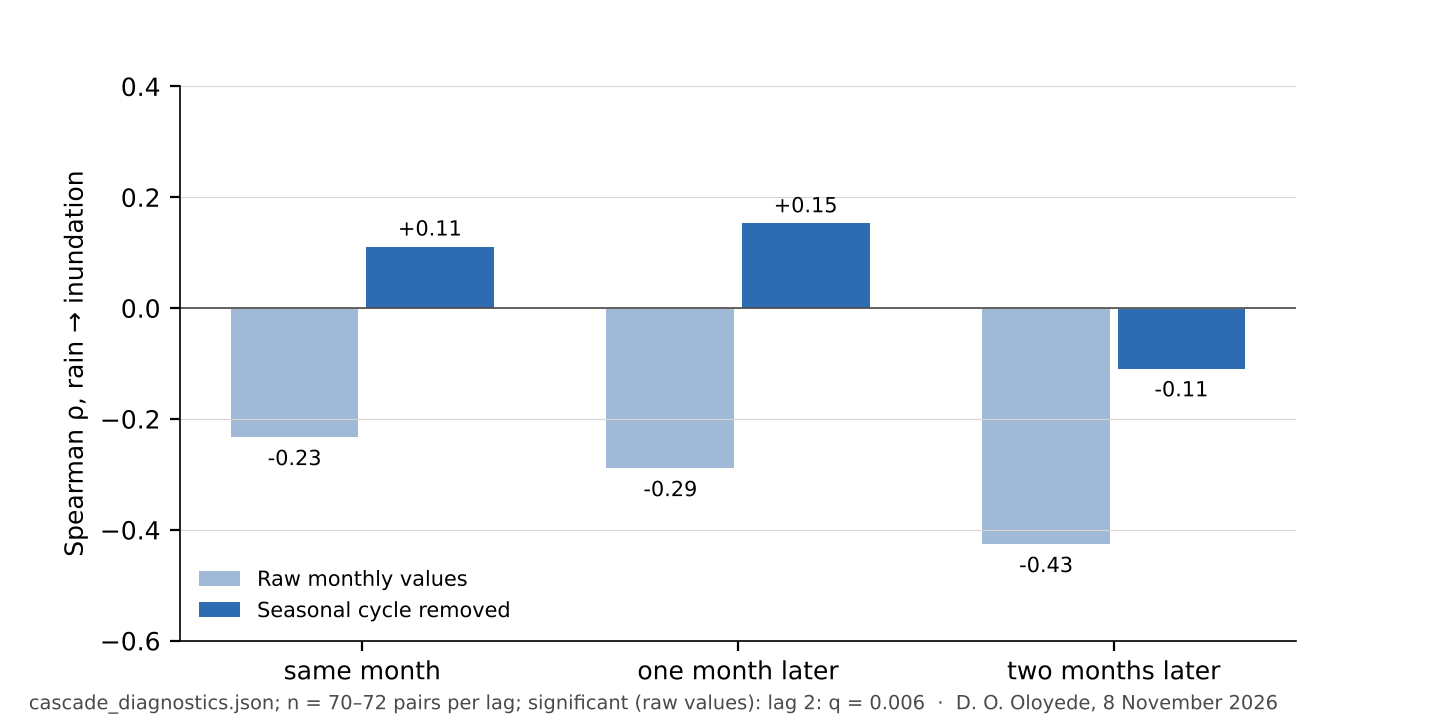
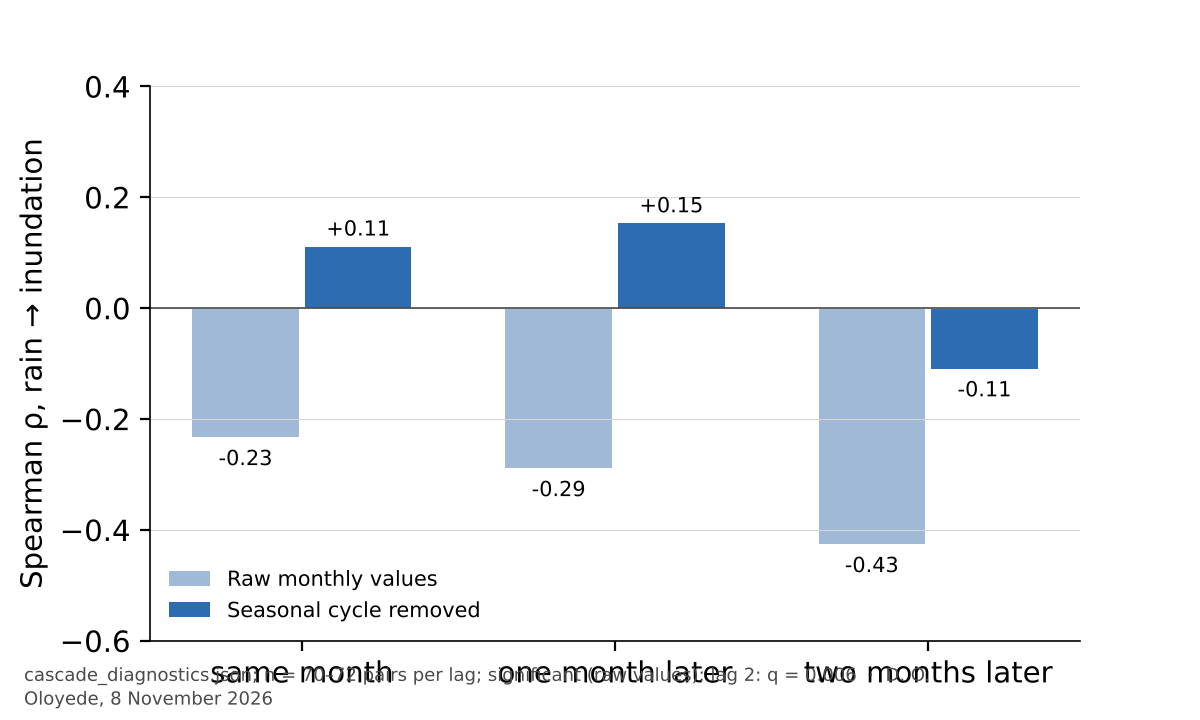
Redraw figures for a phone-width column and size images from their files
Figures are narrower with larger type, so they stay legible on a phone;
source lines wrap. The page now reads each image's pixel size instead of
using fixed dimensions.

diff --git a/docs/index.html b/docs/index.html
@@ -63,7 +63,7 @@
         <p>The Ogun River drains about 22,165 km² of south-west Nigeria, from the Oyo Basement Complex in the north to the Lagos Lagoon in the south. The catchment is divided into four hydrological sub-basins derived from HydroBASINS level 9 <span class="cite">(Lehner &amp; Grill, 2013)</span>. The fifth unit, Z5, is a rectangular lagoon zone at the river's outlet; it is not a watershed and is used only for turbidity (Figure 1).</p>
     </section>
     <figure class="wide reveal" id="fig-1">
-        <img src="assets/figures/fig1_study_area.png" width="1440" height="1080" loading="lazy" alt="Map of the five analytical units of the Ogun catchment, Z1 to Z4 sub-basins and the lagoon zone Z5">
+        <img src="assets/figures/fig1_study_area.png" width="1200" height="1000" loading="lazy" alt="Map of the five analytical units of the Ogun catchment, Z1 to Z4 sub-basins and the lagoon zone Z5">
         <figcaption><b>Figure 1.</b> The five analytical units. Z1 to Z4 are hydrological sub-basins from HydroBASINS level 9; Z5 is the lagoon zone (areas in the legend).</figcaption>
     </figure>
 
@@ -101,7 +101,7 @@
         <p>Averaged by calendar month, rainfall peaks in October, soil moisture in September and the radar inundation index in October. The largest radar value is 3.58 km², in October 2024. The optical Dynamic World series reaches 283 km² in its largest month, so the two are on very different scales (Figure 2).</p>
     </section>
     <figure class="wide reveal" id="fig-2">
-        <img src="assets/figures/fig2_series.png" width="1440" height="1520" loading="lazy" alt="Five stacked time series, January 2019 to December 2024: rainfall, soil moisture, radar inundation index, Dynamic World flooding and lagoon turbidity">
+        <img src="assets/figures/fig2_series.png" width="1200" height="1480" loading="lazy" alt="Five stacked time series, January 2019 to December 2024: rainfall, soil moisture, radar inundation index, Dynamic World flooding and lagoon turbidity">
         <figcaption><b>Figure 2.</b> Monthly catchment series, 2019 to 2024. Gaps are months without a valid observation.</figcaption>
     </figure>
 
@@ -110,7 +110,7 @@
         <p>On raw values, rainfall and radar inundation are negatively associated at a lag: rain two months earlier goes with less flooding now (−0.43, q = 0.006). Soil moisture and flooding in the same month show a similar negative association (−0.38, q = 0.037). These are the seasonal co-variations the data would show in any two series that share an annual cycle. Their sign is not explained by a mechanism here, and the seasonal test below removes them (Figure 3).</p>
     </section>
     <figure class="wide reveal" id="fig-3">
-        <img src="assets/figures/fig3_lags.png" width="1440" height="720" loading="lazy" alt="Bars of Spearman correlation between rainfall and inundation at lags of 0, 1 and 2 months, raw and with the seasonal cycle removed">
+        <img src="assets/figures/fig3_lags.png" width="1200" height="720" loading="lazy" alt="Bars of Spearman correlation between rainfall and inundation at lags of 0, 1 and 2 months, raw and with the seasonal cycle removed">
         <figcaption><b>Figure 3.</b> Spearman ρ between rainfall and radar inundation at lags of 0 to 2 months, on raw values and with the seasonal cycle removed. Raw values show a significant association only at two months (q = 0.006).</figcaption>
     </figure>
 
@@ -119,7 +119,7 @@
         <p>With the seasonal cycle removed, rainfall and flooding in the same month show a positive association (ρ = +0.11, q = 0.44) that is not significant after correction. A one-month lag gives ρ = +0.15 (q = 0.44). The Pearson correlation for the same month is +0.38 (95% interval +0.17 to +0.56), but Pearson is sensitive to a single extreme month. Leaving out October 2024 alone gives r = +0.19 (95% interval −0.04 to +0.41). Soil moisture and flooding give ρ = −0.07 (q = 0.65). Of the 5 headline relationships, 0 is significant after correction (Figure 4).</p>
     </section>
     <figure class="wide reveal" id="fig-4">
-        <img src="assets/figures/fig4_relationships.png" width="1440" height="680" loading="lazy" alt="Dot plot of Spearman correlation for the headline relationships, all with q above 0.05">
+        <img src="assets/figures/fig4_relationships.png" width="1200" height="720" loading="lazy" alt="Dot plot of Spearman correlation for the headline relationships, all with q above 0.05">
         <figcaption><b>Figure 4.</b> Spearman ρ for the headline relationships on anomalies. q is the Benjamini–Hochberg adjusted p-value across the family. Grey: not significant.</figcaption>
     </figure>
 
@@ -128,7 +128,7 @@
         <p>Controlling for the open-water area of Oyan Reservoir leaves the same-month anomaly association almost unchanged (ρ = +0.12, against +0.11 without the control). The reservoir is therefore not the explanation for the absence of a month-to-month link. Dam release records are not available, so the regulation effect is only partly tested (Figure 5).</p>
     </section>
     <figure class="wide reveal" id="fig-5">
-        <img src="assets/figures/fig5_reservoir.png" width="1440" height="680" loading="lazy" alt="Bars comparing rainfall and inundation correlations with and without a reservoir control">
+        <img src="assets/figures/fig5_reservoir.png" width="1200" height="720" loading="lazy" alt="Bars comparing rainfall and inundation correlations with and without a reservoir control">
         <figcaption><b>Figure 5.</b> Spearman ρ between rainfall and inundation anomalies, with and without controlling for the Oyan Reservoir area.</figcaption>
     </figure>
 

diff --git a/scripts/make_figures.py b/scripts/make_figures.py
@@ -29,7 +29,7 @@ OUT = ROOT / "docs" / "assets" / "figures"
 INK, INK2, RULE = "#111111", "#4a4a4a", "#d7d6d0"
 DATE = "8 November 2026"
 AUTHOR = "D. O. Oloyede"
-plt.rcParams.update({"font.family": "DejaVu Sans", "font.size": 9, "axes.linewidth": 0.6,
+plt.rcParams.update({"font.family": "DejaVu Sans", "font.size": 10.5, "axes.linewidth": 0.6,
                      "axes.spines.top": False, "axes.spines.right": False})
 C_RAIN, C_SOIL, C_SAR, C_DW, C_NDTI = "#2d6cb0", "#3c8d6e", "#c0501a", "#7a5aa6", "#8a6d1f"
 
@@ -42,11 +42,13 @@ def _compiler():
 
 
 def _source(fig, text):
-    fig.text(0.02, 0.015, f"{text}  ·  {AUTHOR}, {DATE}", fontsize=7, color=INK2)
+    import textwrap
+    lines = textwrap.wrap(f"{text}  ·  {AUTHOR}, {DATE}", width=105)
+    fig.text(0.02, 0.012, "\n".join(lines), fontsize=6.5, color=INK2, va="bottom", linespacing=1.3)
 
 
 def fig1_study_area(gj):
-    fig, ax = plt.subplots(figsize=(7.2, 5.4), dpi=200)
+    fig, ax = plt.subplots(figsize=(6.0, 5.0), dpi=200)
     for f in sorted(gj["features"], key=lambda f: -f["properties"]["area_km2"]):
         p = f["properties"]
         for ring in (f["geometry"]["coordinates"] if f["geometry"]["type"] == "MultiPolygon" else [f["geometry"]["coordinates"]]):
@@ -63,14 +65,14 @@ def fig1_study_area(gj):
     ax.grid(color=RULE, lw=0.4)
     handles = [plt.Rectangle((0, 0), 1, 1, color=f["properties"]["role_color"], alpha=0.5) for f in gj["features"]]
     labels = [f"{f['properties']['zone_id']} {f['properties']['zone_name']} ({f['properties']['area_km2']:,.0f} km²)" for f in gj["features"]]
-    ax.legend(handles, labels, fontsize=7, frameon=False, loc="upper left", bbox_to_anchor=(1.01, 1))
-    fig.subplots_adjust(right=0.62, bottom=0.12, top=0.95, left=0.1)
+    ax.legend(handles, labels, fontsize=8, frameon=False, loc="upper left", bbox_to_anchor=(1.01, 1))
+    fig.subplots_adjust(right=0.6, bottom=0.12, top=0.96, left=0.12)
     _source(fig, "Units: WWF HydroBASINS level 9 (Z1–Z4); Z5 is a rectangular lagoon zone, not a watershed")
     return fig
 
 
 def fig2_series(df):
-    fig, axes = plt.subplots(5, 1, figsize=(7.2, 7.6), sharex=True, dpi=200, gridspec_kw={"hspace": 0.25})
+    fig, axes = plt.subplots(5, 1, figsize=(6.0, 7.4), sharex=True, dpi=200, gridspec_kw={"hspace": 0.25})
     t = pd.to_datetime(df["year_month"], format="%Y-%m")
     spec = [("rain_mm", "Rain (mm/month)", C_RAIN), ("shallow_sm_m3m3", "Soil moisture (m³/m³)", C_SOIL),
             ("sar_flood_km2", "Radar index (km²)", C_SAR), ("dw_flood_km2", "Dynamic World (km²)", C_DW),
@@ -85,7 +87,7 @@ def fig2_series(df):
 
 
 def fig3_lags(diag):
-    fig, ax = plt.subplots(figsize=(7.2, 3.6), dpi=200)
+    fig, ax = plt.subplots(figsize=(6.0, 3.6), dpi=200)
     seas, deseas = diag["rain_to_sar_inundation_lags_seasonal"], diag["rain_to_sar_inundation_lags_deseasonalized"]
     lags = ["lag_0_month", "lag_1_month", "lag_2_month"]
     x = np.arange(3)
@@ -107,7 +109,7 @@ def fig3_lags(diag):
 
 
 def fig4_relationships(diag):
-    fig, ax = plt.subplots(figsize=(7.2, 3.4), dpi=200)
+    fig, ax = plt.subplots(figsize=(6.0, 3.6), dpi=200)
     rows = diag["key_findings"]
     short = {
         "Rain -> floodplain SAR inundation (same month, deseasonalized)": "Rain → inundation, same month",
@@ -126,17 +128,17 @@ def fig4_relationships(diag):
         ax.plot([0, r], [yi, yi], color=colour, lw=1.2)
         ax.plot(r, yi, "o", color=colour, ms=5)
         ax.text(0.64, yi, f"q = {qi:.2f}", va="center", fontsize=7.5, color=INK2)
-    ax.set_yticks(y, labels, fontsize=8)
+    ax.set_yticks(y, labels, fontsize=9)
     ax.set_xlim(-0.2, 0.75)
     ax.set_xlabel("Spearman ρ (recommended estimator)", fontsize=8)
     ax.grid(axis="x", color=RULE, lw=0.4)
-    fig.subplots_adjust(left=0.36, right=0.97, bottom=0.22, top=0.96)
+    fig.subplots_adjust(left=0.5, right=0.97, bottom=0.2, top=0.96)
     _source(fig, "cascade_diagnostics.json, key_findings; q = BH-adjusted p; grey = q ≥ 0.05")
     return fig
 
 
 def fig5_reservoir(diag):
-    fig, ax = plt.subplots(figsize=(7.2, 3.4), dpi=200)
+    fig, ax = plt.subplots(figsize=(6.0, 3.6), dpi=200)
     base = diag["rain_to_sar_inundation_lags_deseasonalized"]
     ctl = diag["rain_to_sar_inundation_controlling_for_oyan_reservoir"]["deseasonalized"]
     lags = ["lag_0_month", "lag_1_month", "lag_2_month"]

diff --git a/scripts/build_page.py b/scripts/build_page.py
@@ -354,8 +354,20 @@ TEMPLATE = """<!DOCTYPE html>
 """
 
 
+def _size(rel: str) -> tuple[int, int]:
+    from PIL import Image
+    with Image.open(ROOT / "docs" / rel) as im:
+        return im.size
+
+
 def main() -> None:
     v = values()
+    import re as _re
+    def _fix_img(m):
+        w, h = _size(m.group(1))
+        return f'<img src="{m.group(1)}" width="{w}" height="{h}"'
+    TEMPLATE_FIG = _re.sub(r'<img src="(assets/figures/[^"]+)" width="\d+" height="\d+"', _fix_img, TEMPLATE)
+    globals()["TEMPLATE"] = TEMPLATE_FIG
     v["ISO_DATE"] = date.today().isoformat()
     if v.get("NSIG_ANOM") != "0":
         raise SystemExit("A headline relationship is now significant: the abstract and section 4.3 wording must be revised first.")
